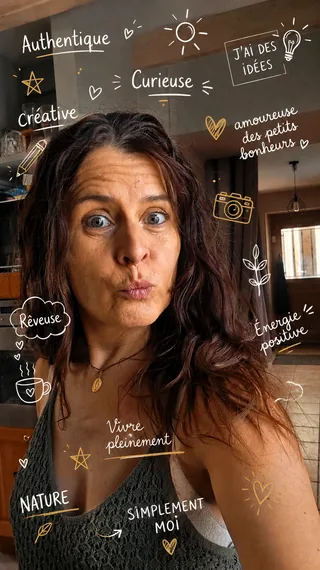
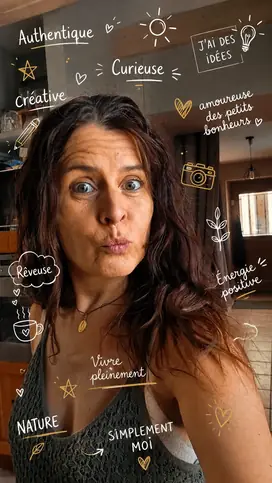
PageSpeed : Google Tag Manager chargé à la première interaction, image mobile allégée
- GTM (ajouté le 22/09) se chargeait immédiatement dans le <head> :
  ~74 Kio de JavaScript inutilisé + tâche longue. Il se charge maintenant à la
  première interaction, comme Google Analytics.
- affiche-lindsey-2-mobile.webp redimensionnée à 272x483 (38 Kio -> 22 Kio),
  taille adaptée à l'affichage mobile.
- meta charset/viewport remis en tête du <head>.

Claude-Session: https://claude.ai/code/session_01A8gXbVZCU37BTZZhwKvb5h

diff --git a/index.html b/index.html
@@ -1,11 +1,22 @@
 <!DOCTYPE html>
 <html lang="fr">
 <head>
-  <!-- Google Tag Manager -->
-  <script>(function(w,d,s,l,i){w[l]=w[l]||[];w[l].push({'gtm.start': new Date().getTime(),event:'gtm.js'});var f=d.getElementsByTagName(s)[0], j=d.createElement(s),dl=l!='dataLayer'?'&l='+l:'';j.async=true;j.src= 'https://www.googletagmanager.com/gtm.js?id='+i+dl;f.parentNode.insertBefore(j,f); })(window,document,'script','dataLayer','GTM-K4MLN5H4');</script>
-  <!-- End Google Tag Manager -->
   <meta charset="UTF-8" />
   <meta name="viewport" content="width=device-width, initial-scale=1.0" />
+  <!-- Google Tag Manager (chargé à la première interaction pour préserver le score PageSpeed) -->
+  <script>
+    (function(){
+      function loadGTM(){
+        if (window._gtmLoaded) return;
+        window._gtmLoaded = true;
+        (function(w,d,s,l,i){w[l]=w[l]||[];w[l].push({'gtm.start': new Date().getTime(),event:'gtm.js'});var f=d.getElementsByTagName(s)[0], j=d.createElement(s),dl=l!='dataLayer'?'&l='+l:'';j.async=true;j.src= 'https://www.googletagmanager.com/gtm.js?id='+i+dl;f.parentNode.insertBefore(j,f); })(window,document,'script','dataLayer','GTM-K4MLN5H4');
+      }
+      ['click','scroll','touchstart','keydown','mousemove'].forEach(function(e){
+        document.addEventListener(e, loadGTM, {once: true, passive: true});
+      });
+    })();
+  </script>
+  <!-- End Google Tag Manager -->
 
   <meta name="google-site-verification" content="OMsRplMTSopxXWNzOY6HTUGDoCJo4onrzpUJl8peGQY" />
   <meta name="google-adsense-account" content="ca-pub-1326465246809657">
